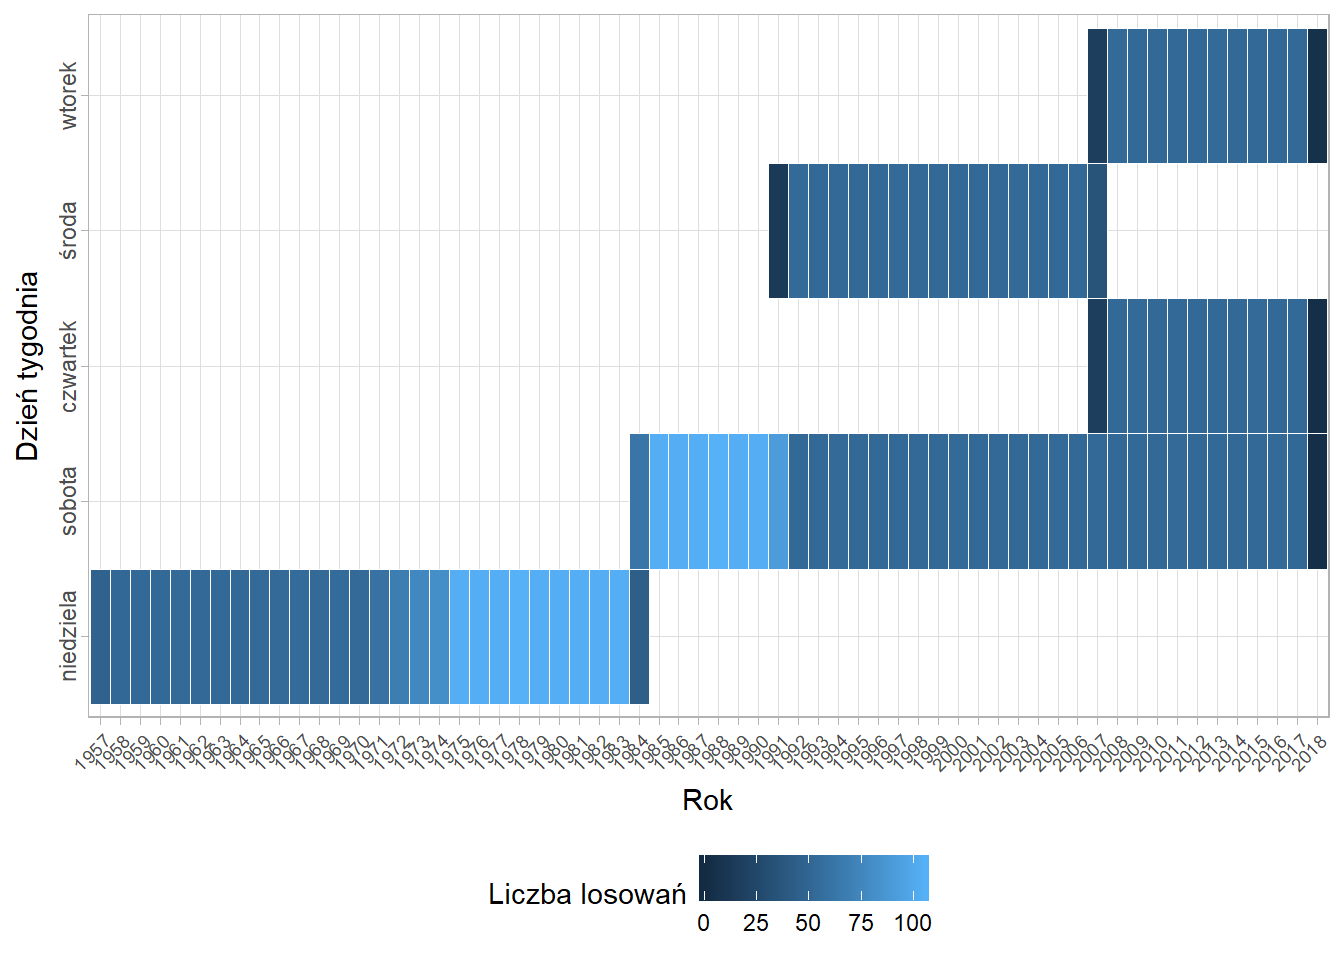
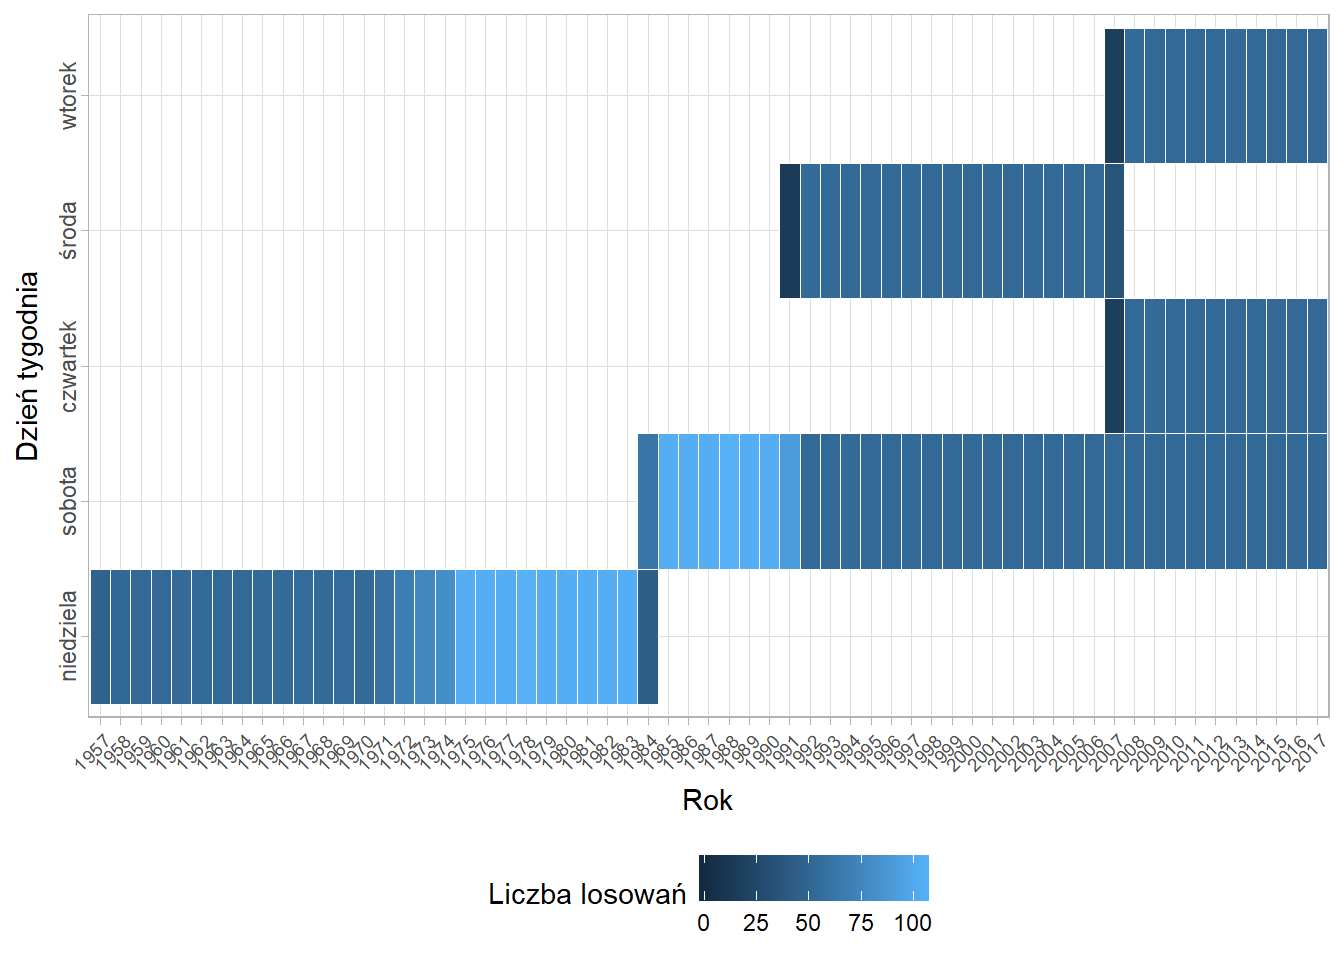
aktualizacja lotto

diff --git a/content/post/2017-10-25-lotto.html b/content/post/2017-10-25-lotto.html
@@ -14,6 +14,9 @@ tags:
 
 
 
+<blockquote>
+<p>Wpis zaktualizowany 14.02.2018 r.</p>
+</blockquote>
 <p>Impulsem do przeprowadzenia analizy danych pochodzących z losowań Lotto była konieczność przedstawienia uczniom liceum przykładu losowania prostego. Czy faktycznie każda liczba ma takie samo prawdopodobieństwo wylosowania?</p>
 <p>Lotto, dawniej Toto-Lotek oraz Duży Lotek to losowanie 6 liczb z 49. Dużo ciekawych informacji na temat samej gry oraz jej historii można znaleźć na stronie <a href="https://pl.wikipedia.org/wiki/Lotto_(gra_liczbowa)/">wikipedii</a>.</p>
 <p>Dane w formacie tekstowym można pobrać ze strony <a href="http://www.mbnet.com.pl/">mbnet.com.pl</a>. Po wczytaniu do R dokonałem niezbędnego przekształcenia danych.</p>
@@ -28,8 +31,9 @@ names(d) &lt;- c(&quot;obs&quot;, &quot;date&quot;, &quot;numbers&quot;)
 d &lt;- d %&gt;%
   separate(numbers, into = c(&quot;number1&quot;, &quot;number2&quot;, &quot;number3&quot;, &quot;number4&quot;, &quot;number5&quot;, &quot;number6&quot;)) %&gt;%
   separate(date, into = c(&quot;day&quot;, &quot;month&quot;, &quot;year&quot;), remove = F) %&gt;%
-  mutate(date_f=as.POSIXct(strptime(date, &quot;%d.%m.%Y&quot;)))</code></pre>
-<p>Do dnia 30 października 2017 roku przeprowadzono 6015 losowań. Żadna sekwencja liczb się nie powtórzyła.</p>
+  mutate(date_f=as.POSIXct(strptime(date, &quot;%d.%m.%Y&quot;))) %&gt;%
+  filter(year&lt;2018)</code></pre>
+<p>Do końca 2017 roku przeprowadzono 6041 losowań. Żadna sekwencja liczb się nie powtórzyła.</p>
 <p>W pierwszej kolejności sprawdźmy ile razy dana liczba została już wylosowana.</p>
 <pre class="r"><code>freqs &lt;- d %&gt;%
   select(starts_with(&quot;number&quot;)) %&gt;%
@@ -45,7 +49,7 @@ ggplot(counts_num, aes(x=as.factor(value), n)) +
   theme_light() +
   theme(axis.text.x = element_text(size = 7))</code></pre>
 <p><img src="/post/2017-10-25-lotto_files/figure-html/freq%20each%20number-1.png" width="672" /></p>
-<p>Okazuje się, że rozkład liczb losowanych w Lotto jest zbliżony do rozkładu jednostajnego. Najrzadziej losowana była liczba 43 - 664 razy, a najczęściej liczba 34 - 802 razy.</p>
+<p>Okazuje się, że rozkład liczb losowanych w Lotto jest zbliżony do rozkładu jednostajnego. Najrzadziej losowana była liczba 43 - 667 razy, a najczęściej liczba 34 - 807 razy.</p>
 <p>Z kolei do przedstawienia rozkładu liczb na poszczególnych pozycjach najlepiej sprawdzi się wykres skrzypcowy - połączenie wykresu pudełkowego z rozkładem gęstości.</p>
 <pre class="r"><code>ggplot(freqs, aes(x=number, y=value)) + 
   geom_violin(fill=&quot;#FCBD10&quot;) +
